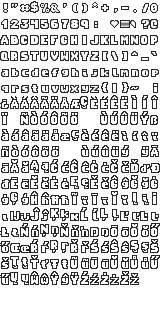
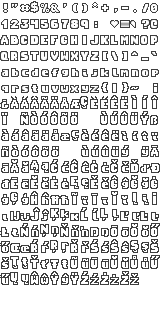
Make Text with scale 1 match work pixel density

Changed region(s): [[0.75, 0.0625, 0.8125, 0.0938]]

diff --git a/Dungeoneer/src/com/interrupt/dungeoneer/gfx/GlRenderer.java b/Dungeoneer/src/com/interrupt/dungeoneer/gfx/GlRenderer.java
@@ -43,6 +43,7 @@ import com.interrupt.dungeoneer.gfx.shaders.ShaderInfo;
 import com.interrupt.dungeoneer.gfx.shaders.WaterShaderInfo;
 import com.interrupt.dungeoneer.overlays.OverlayManager;
 import com.interrupt.dungeoneer.partitioning.TriangleSpatialHash;
+import com.interrupt.dungeoneer.statuseffects.StatusEffect;
 import com.interrupt.dungeoneer.tiles.Tile;
 import com.interrupt.dungeoneer.ui.EquipLoc;
 import com.interrupt.dungeoneer.ui.FontBounds;
@@ -807,8 +808,7 @@ public class GlRenderer {
             batch = getDecalBatch("picking", Entity.BlendMode.OPAQUE);
         }
 
-		// Global text scale modifier. Make a constant?
-		float baseTextScale = 0.025f;
+		float unitsPerPixel = 1 / 32f;
 
 		Color tempColor = new Color();
 
@@ -816,7 +816,7 @@ public class GlRenderer {
 			DrawableText drawableText = textToRender.get(i);
 
 			float curXPos = 0f, curZPos = 0f;
-			float scale = drawableText.scale * baseTextScale;
+			float scale = drawableText.scale * unitsPerPixel;
 
 			GlyphLayout layout = FontBounds.GetBounds(font, drawableText.text);
 
